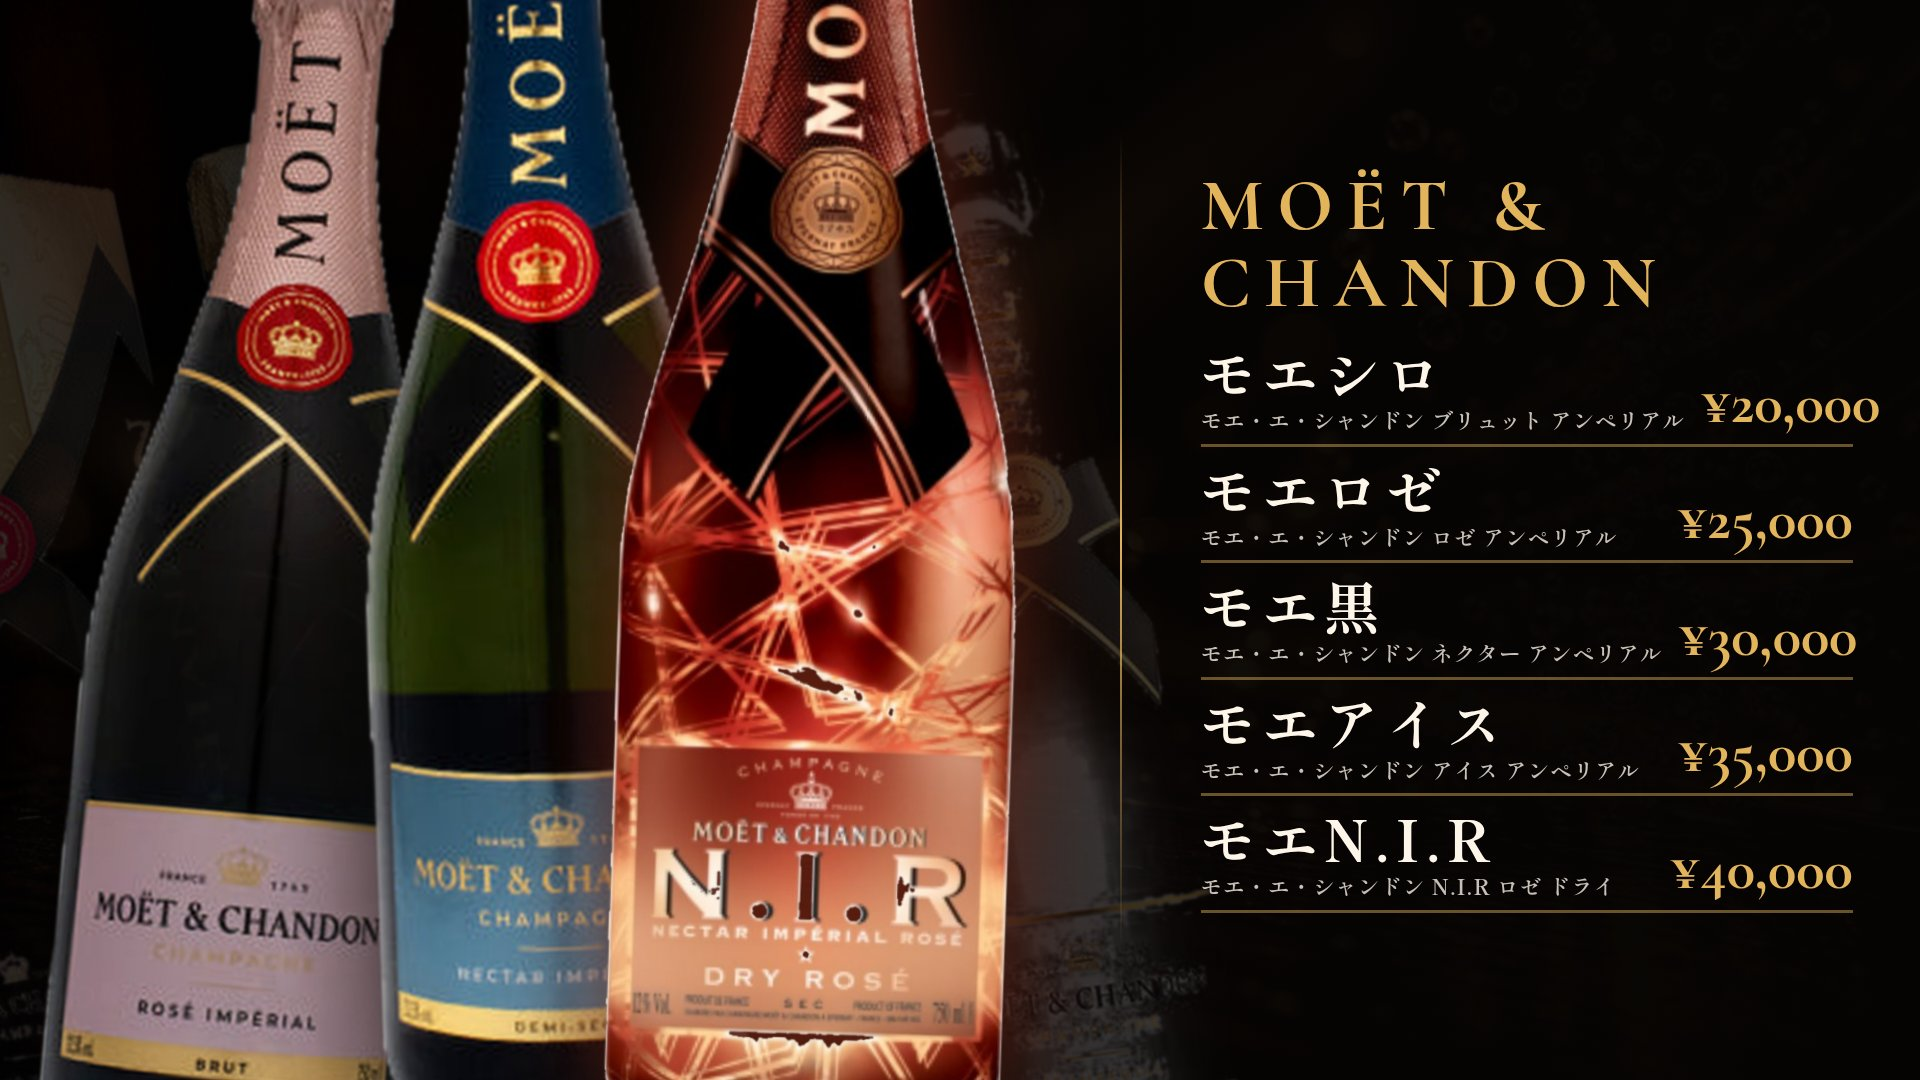
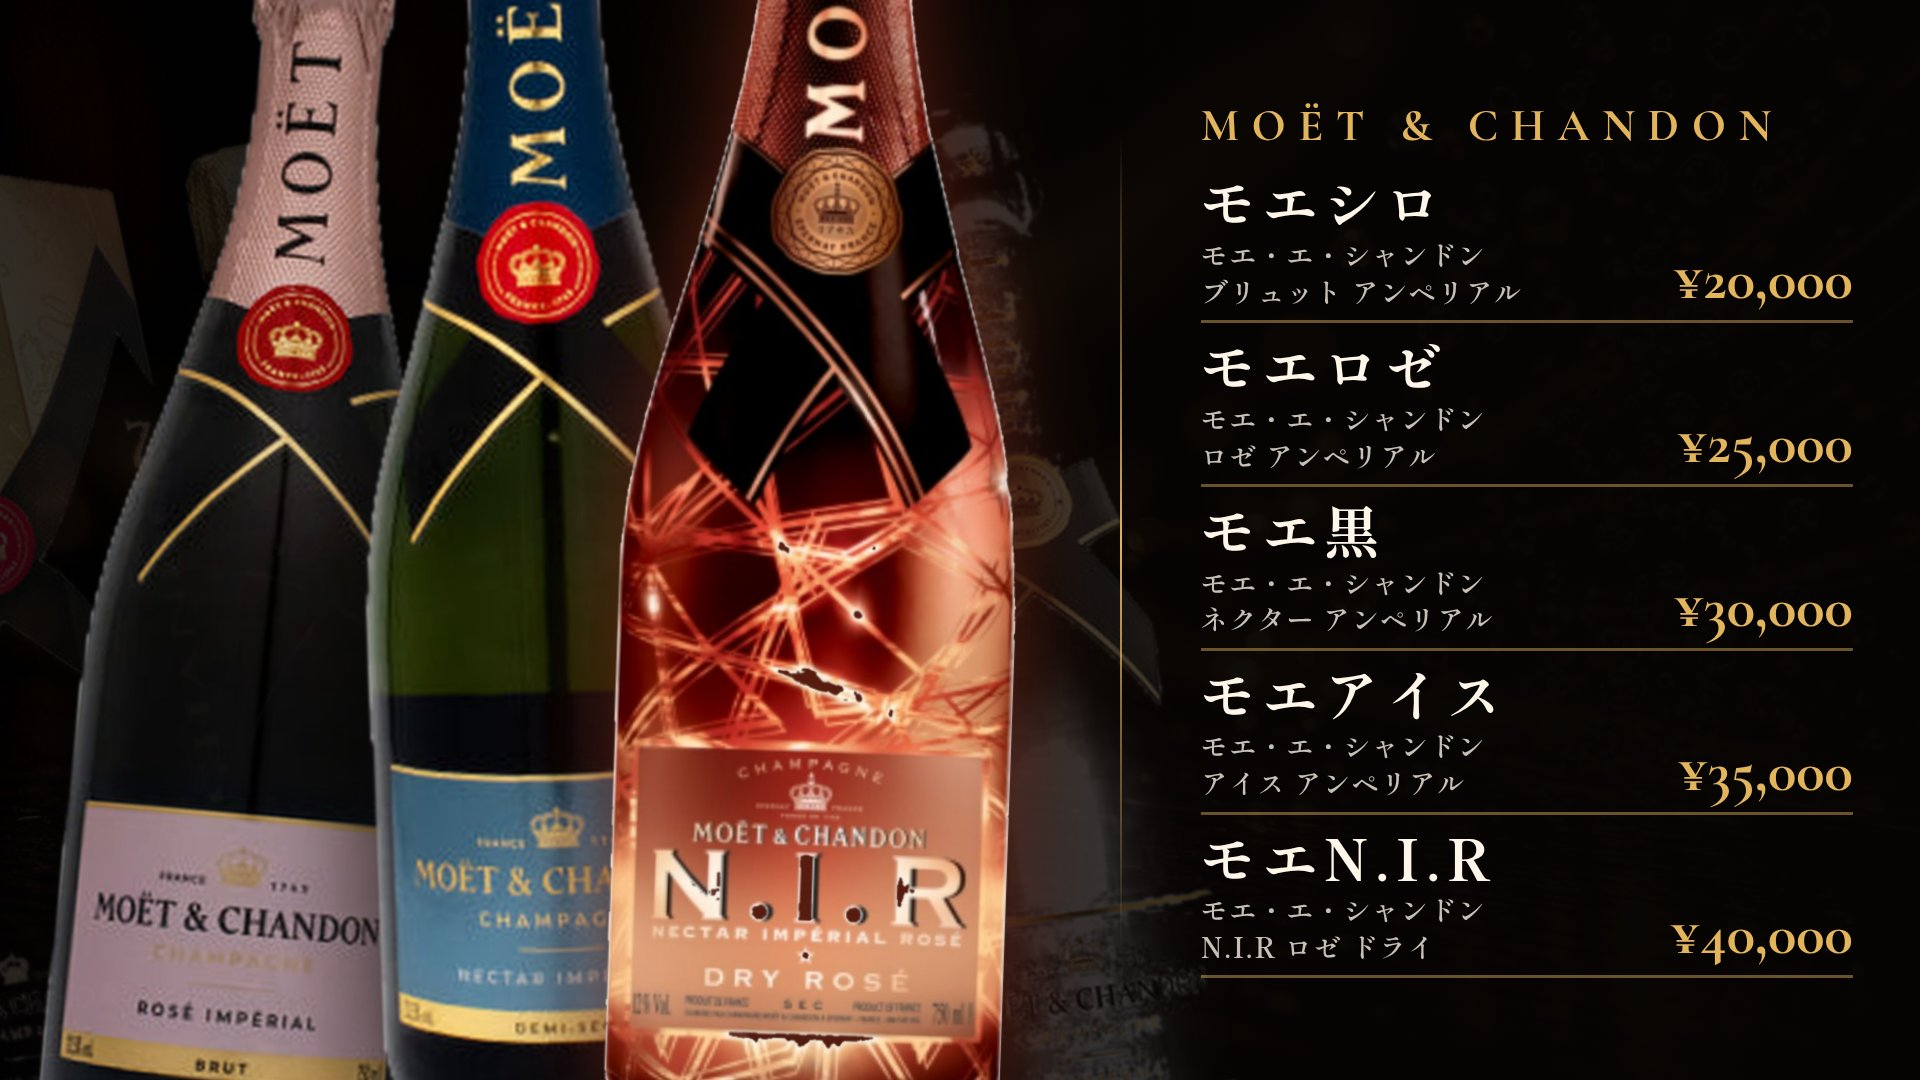
Shrink top MOËT & CHANDON title to fit one line
Restore product formal line breaks; the one-line sizing was meant for the hero title only.

diff --git a/designs/19-trio-focus.html b/designs/19-trio-focus.html
@@ -20,7 +20,7 @@
 </div>
 <div class="panel">
 <h1 class="title">MOËT &amp; CHANDON</h1>
-<div class="list"><div class="row"><div><p class="nick">モエシロ</p><p class="formal">モエ・エ・シャンドン ブリュット アンペリアル</p></div><p class="price">¥20,000</p></div><div class="row"><div><p class="nick">モエロゼ</p><p class="formal">モエ・エ・シャンドン ロゼ アンペリアル</p></div><p class="price">¥25,000</p></div><div class="row"><div><p class="nick">モエ黒</p><p class="formal">モエ・エ・シャンドン ネクター アンペリアル</p></div><p class="price">¥30,000</p></div><div class="row"><div><p class="nick">モエアイス</p><p class="formal">モエ・エ・シャンドン アイス アンペリアル</p></div><p class="price">¥35,000</p></div><div class="row"><div><p class="nick">モエN.I.R</p><p class="formal">モエ・エ・シャンドン N.I.R ロゼ ドライ</p></div><p class="price">¥40,000</p></div></div>
+<div class="list"><div class="row"><div><p class="nick">モエシロ</p><p class="formal">モエ・エ・シャンドン<br>ブリュット アンペリアル</p></div><p class="price">¥20,000</p></div><div class="row"><div><p class="nick">モエロゼ</p><p class="formal">モエ・エ・シャンドン<br>ロゼ アンペリアル</p></div><p class="price">¥25,000</p></div><div class="row"><div><p class="nick">モエ黒</p><p class="formal">モエ・エ・シャンドン<br>ネクター アンペリアル</p></div><p class="price">¥30,000</p></div><div class="row"><div><p class="nick">モエアイス</p><p class="formal">モエ・エ・シャンドン<br>アイス アンペリアル</p></div><p class="price">¥35,000</p></div><div class="row"><div><p class="nick">モエN.I.R</p><p class="formal">モエ・エ・シャンドン<br>N.I.R ロゼ ドライ</p></div><p class="price">¥40,000</p></div></div>
 </div>
 </div>
 

diff --git a/designs/shared.css b/designs/shared.css
@@ -12,9 +12,9 @@ img{display:block;max-width:100%}
 .back{top:10px;left:10px}.badge{top:10px;right:10px;color:var(--gold2)}
 body.shot .back,body.shot .badge,html.shot .back,html.shot .badge{display:none!important}
 .maison{font-family:var(--serif);letter-spacing:.42em;color:var(--gold);font-size:clamp(1rem,1.5vw,1.3rem);font-weight:600}
-.title{font-family:var(--serif);font-size:clamp(2.6rem,5.5vw,4.6rem);letter-spacing:.18em;font-weight:700;line-height:1.05;color:var(--gold)}
+.title{font-family:var(--serif);font-size:clamp(1.7rem,3.2vw,2.8rem);letter-spacing:.28em;font-weight:700;line-height:1.1;color:var(--gold);white-space:nowrap}
 .nick{font-size:clamp(2rem,4vw,3.5rem);font-weight:700;letter-spacing:.1em;line-height:1.05}
-.formal{margin-top:.25rem;font-size:clamp(.95rem,1.45vw,1.35rem);color:var(--muted);letter-spacing:.04em;line-height:1.25;white-space:nowrap}
+.formal{margin-top:.3rem;font-size:clamp(1.15rem,1.9vw,1.7rem);color:var(--muted);letter-spacing:.05em;line-height:1.35}
 .price{font-family:var(--serif);font-size:clamp(2.1rem,4.2vw,3.7rem);font-weight:700;color:var(--gold);line-height:1;white-space:nowrap}
 .is-hot .nick,.is-hot .price{color:var(--gold2)}
 @media(max-width:800px){html,body{overflow:auto;height:auto;min-height:100%}}
